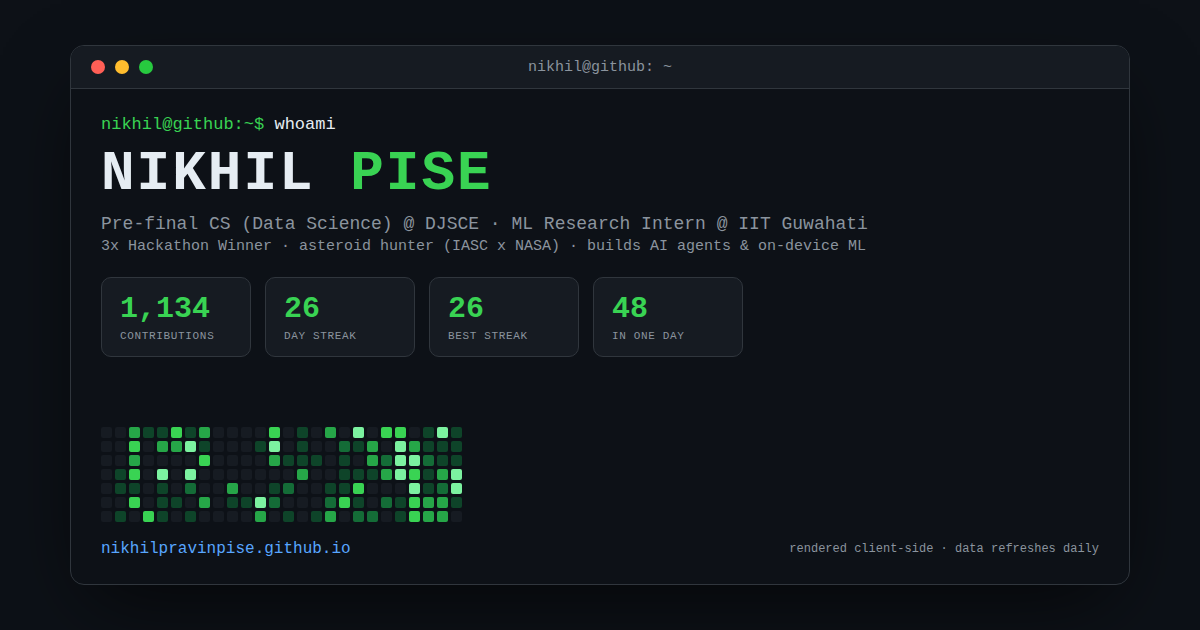
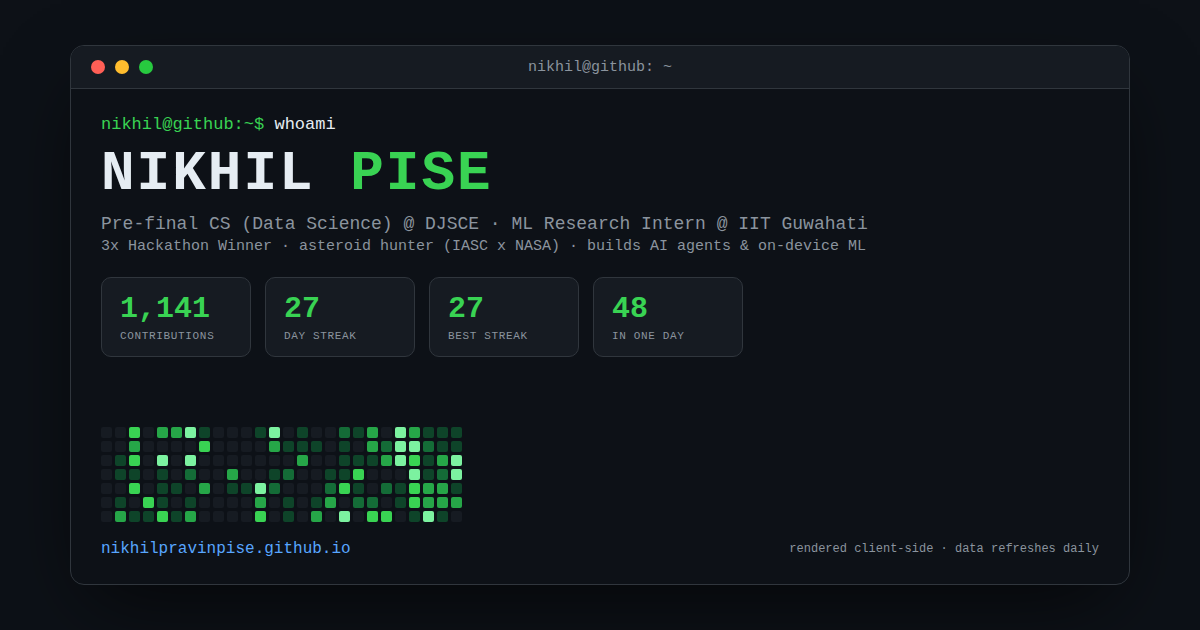
chore: refresh contribution data

diff --git a/assets/fallback.js b/assets/fallback.js
@@ -1,3 +1,3 @@
 // GENERATED by scripts/sync-github-data.js - do not edit by hand.
-export const contributions = {"username":"nikhilpravinpise","generated_at":"2026-09-18T08:14:25.881Z","range":{"start":"2025-09-14","end":"2026-09-18"},"total_contributions":1134,"active_days":185,"avg_per_active_day":6.1,"current_streak":{"length":26,"start":"2026-08-23","end":"2026-09-17"},"longest_streak":{"length":26,"start":"2026-08-23","end":"2026-09-17"},"best_day":{"date":"2026-09-15","count":48},"monthly":[{"month":"2025-09","total":14},{"month":"2025-10","total":56},{"month":"2025-11","total":128},{"month":"2025-12","total":116},{"month":"2026-01","total":37},{"month":"2026-02","total":62},{"month":"2026-03","total":30},{"month":"2026-04","total":117},{"month":"2026-05","total":72},{"month":"2026-06","total":84},{"month":"2026-07","total":68},{"month":"2026-08","total":230},{"month":"2026-09","total":120}],"days":[{"date":"2025-09-14","count":3},{"date":"2025-09-15","count":3},{"date":"2025-09-16","count":0},{"date":"2025-09-17","count":0},{"date":"2025-09-18","count":0},{"date":"2025-09-19","count":0},{"date":"2025-09-20","count":0},{"date":"2025-09-21","count":0},{"date":"2025-09-22","count":0},{"date":"2025-09-23","count":3},{"date":"2025-09-24","count":0},{"date":"2025-09-25","count":0},{"date":"2025-09-26","count":4},{"date":"2025-09-27","count":1},{"date":"2025-09-28","count":0},{"date":"2025-09-29","count":0},{"date":"2025-09-30","count":0},{"date":"2025-10-01","count":0},{"date":"2025-10-02","count":0},{"date":"2025-10-03","count":1},{"date":"2025-10-04","count":8},{"date":"2025-10-05","count":0},{"date":"2025-10-06","count":0},{"date":"2025-10-07","count":0},{"date":"2025-10-08","count":5},{"date":"2025-10-09","count":0},{"date":"2025-10-10","count":0},{"date":"2025-10-11","count":0},{"date":"2025-10-12","count":8},{"date":"2025-10-13","count":0},{"date":"2025-10-14","count":0},{"date":"2025-10-15","count":0},{"date":"2025-10-16","count":0},{"date":"2025-10-17","count":0},{"date":"2025-10-18","count":0},{"date":"2025-10-19","count":0},{"date":"2025-10-20","count":0},{"date":"2025-10-21","count":0},{"date":"2025-10-22","count":0},{"date":"2025-10-23","count":0},{"date":"2025-10-24","count":0},{"date":"2025-10-25","count":0},{"date":"2025-10-26","count":4},{"date":"2025-10-27","count":0},{"date":"2025-10-28","count":0},{"date":"2025-10-29","count":2},{"date":"2025-10-30","count":0},{"date":"2025-10-31","count":28},{"date":"2025-11-01","count":4},{"date":"2025-11-02","count":20},{"date":"2025-11-03","count":0},{"date":"2025-11-04","count":0},{"date":"2025-11-05","count":5},{"date":"2025-11-06","count":5},{"date":"2025-11-07","count":0},{"date":"2025-11-08","count":1},{"date":"2025-11-09","count":13},{"date":"2025-11-10","count":0},{"date":"2025-11-11","count":0},{"date":"2025-11-12","count":0},{"date":"2025-11-13","count":0},{"date":"2025-11-14","count":0},{"date":"2025-11-15","count":0},{"date":"2025-11-16","count":5},{"date":"2025-11-17","count":3},{"date":"2025-11-18","count":13},{"date":"2025-11-19","count":16},{"date":"2025-11-20","count":3},{"date":"2025-11-21","count":5},{"date":"2025-11-22","count":15},{"date":"2025-11-23","count":2},{"date":"2025-11-24","count":1},{"date":"2025-11-25","count":2},{"date":"2025-11-26","count":0},{"date":"2025-11-27","count":1},{"date":"2025-11-28","count":4},{"date":"2025-11-29","count":6},{"date":"2025-11-30","count":4},{"date":"2025-12-01","count":0},{"date":"2025-12-02","count":6},{"date":"2025-12-03","count":5},{"date":"2025-12-04","count":0},{"date":"2025-12-05","count":0},{"date":"2025-12-06","count":0},{"date":"2025-12-07","count":6},{"date":"2025-12-08","count":1},{"date":"2025-12-09","count":1},{"date":"2025-12-10","count":11},{"date":"2025-12-11","count":6},{"date":"2025-12-12","count":0},{"date":"2025-12-13","count":1},{"date":"2025-12-14","count":0},{"date":"2025-12-15","count":26},{"date":"2025-12-16","count":0},{"date":"2025-12-17","count":3},{"date":"2025-12-18","count":0},{"date":"2025-12-19","count":7},{"date":"2025-12-20","count":0},{"date":"2025-12-21","count":0},{"date":"2025-12-22","count":1},{"date":"2025-12-23","count":0},{"date":"2025-12-24","count":11},{"date":"2025-12-25","count":3},{"date":"2025-12-26","count":2},{"date":"2025-12-27","count":9},{"date":"2025-12-28","count":2},{"date":"2025-12-29","count":1},{"date":"2025-12-30","count":0},{"date":"2025-12-31","count":14},{"date":"2026-01-01","count":0},{"date":"2026-01-02","count":2},{"date":"2026-01-03","count":1},{"date":"2026-01-04","count":0},{"date":"2026-01-05","count":5},{"date":"2026-01-06","count":2},{"date":"2026-01-07","count":2},{"date":"2026-01-08","count":0},{"date":"2026-01-09","count":0},{"date":"2026-01-10","count":0},{"date":"2026-01-11","count":0},{"date":"2026-01-12","count":0},{"date":"2026-01-13","count":2},{"date":"2026-01-14","count":0},{"date":"2026-01-15","count":2},{"date":"2026-01-16","count":0},{"date":"2026-01-17","count":0},{"date":"2026-01-18","count":0},{"date":"2026-01-19","count":0},{"date":"2026-01-20","count":3},{"date":"2026-01-21","count":12},{"date":"2026-01-22","count":2},{"date":"2026-01-23","count":2},{"date":"2026-01-24","count":0},{"date":"2026-01-25","count":1},{"date":"2026-01-26","count":1},{"date":"2026-01-27","count":0},{"date":"2026-01-28","count":0},{"date":"2026-01-29","count":0},{"date":"2026-01-30","count":0},{"date":"2026-01-31","count":0},{"date":"2026-02-01","count":1},{"date":"2026-02-02","count":7},{"date":"2026-02-03","count":14},{"date":"2026-02-04","count":0},{"date":"2026-02-05","count":0},{"date":"2026-02-06","count":4},{"date":"2026-02-07","count":4},{"date":"2026-02-08","count":5},{"date":"2026-02-09","count":0},{"date":"2026-02-10","count":0},{"date":"2026-02-11","count":0},{"date":"2026-02-12","count":0},{"date":"2026-02-13","count":0},{"date":"2026-02-14","count":0},{"date":"2026-02-15","count":3},{"date":"2026-02-16","count":2},{"date":"2026-02-17","count":2},{"date":"2026-02-18","count":0},{"date":"2026-02-19","count":0},{"date":"2026-02-20","count":0},{"date":"2026-02-21","count":0},{"date":"2026-02-22","count":0},{"date":"2026-02-23","count":13},{"date":"2026-02-24","count":3},{"date":"2026-02-25","count":3},{"date":"2026-02-26","count":0},{"date":"2026-02-27","count":1},{"date":"2026-02-28","count":0},{"date":"2026-03-01","count":0},{"date":"2026-03-02","count":0},{"date":"2026-03-03","count":0},{"date":"2026-03-04","count":0},{"date":"2026-03-05","count":0},{"date":"2026-03-06","count":0},{"date":"2026-03-07","count":0},{"date":"2026-03-08","count":0},{"date":"2026-03-09","count":15},{"date":"2026-03-10","count":2},{"date":"2026-03-11","count":0},{"date":"2026-03-12","count":0},{"date":"2026-03-13","count":7},{"date":"2026-03-14","count":5},{"date":"2026-03-15","count":0},{"date":"2026-03-16","count":0},{"date":"2026-03-17","count":0},{"date":"2026-03-18","count":0},{"date":"2026-03-19","count":0},{"date":"2026-03-20","count":0},{"date":"2026-03-21","count":0},{"date":"2026-03-22","count":0},{"date":"2026-03-23","count":0},{"date":"2026-03-24","count":0},{"date":"2026-03-25","count":0},{"date":"2026-03-26","count":0},{"date":"2026-03-27","count":0},{"date":"2026-03-28","count":0},{"date":"2026-03-29","count":0},{"date":"2026-03-30","count":0},{"date":"2026-03-31","count":1},{"date":"2026-04-01","count":2},{"date":"2026-04-02","count":0},{"date":"2026-04-03","count":2},{"date":"2026-04-04","count":5},{"date":"2026-04-05","count":15},{"date":"2026-04-06","count":6},{"date":"2026-04-07","count":8},{"date":"2026-04-08","count":2},{"date":"2026-04-09","count":13},{"date":"2026-04-10","count":0},{"date":"2026-04-11","count":2},{"date":"2026-04-12","count":0},{"date":"2026-04-13","count":0},{"date":"2026-04-14","count":0},{"date":"2026-04-15","count":0},{"date":"2026-04-16","count":0},{"date":"2026-04-17","count":15},{"date":"2026-04-18","count":2},{"date":"2026-04-19","count":4},{"date":"2026-04-20","count":0},{"date":"2026-04-21","count":20},{"date":"2026-04-22","count":2},{"date":"2026-04-23","count":2},{"date":"2026-04-24","count":1},{"date":"2026-04-25","count":11},{"date":"2026-04-26","count":4},{"date":"2026-04-27","count":0},{"date":"2026-04-28","count":0},{"date":"2026-04-29","count":0},{"date":"2026-04-30","count":1},{"date":"2026-05-01","count":0},{"date":"2026-05-02","count":1},{"date":"2026-05-03","count":17},{"date":"2026-05-04","count":0},{"date":"2026-05-05","count":17},{"date":"2026-05-06","count":3},{"date":"2026-05-07","count":0},{"date":"2026-05-08","count":2},{"date":"2026-05-09","count":5},{"date":"2026-05-10","count":2},{"date":"2026-05-11","count":12},{"date":"2026-05-12","count":0},{"date":"2026-05-13","count":0},{"date":"2026-05-14","count":5},{"date":"2026-05-15","count":0},{"date":"2026-05-16","count":0},{"date":"2026-05-17","count":0},{"date":"2026-05-18","count":0},{"date":"2026-05-19","count":0},{"date":"2026-05-20","count":0},{"date":"2026-05-21","count":0},{"date":"2026-05-22","count":0},{"date":"2026-05-23","count":0},{"date":"2026-05-24","count":0},{"date":"2026-05-25","count":0},{"date":"2026-05-26","count":0},{"date":"2026-05-27","count":7},{"date":"2026-05-28","count":1},{"date":"2026-05-29","count":0},{"date":"2026-05-30","count":0},{"date":"2026-05-31","count":0},{"date":"2026-06-01","count":0},{"date":"2026-06-02","count":0},{"date":"2026-06-03","count":0},{"date":"2026-06-04","count":1},{"date":"2026-06-05","count":0},{"date":"2026-06-06","count":0},{"date":"2026-06-07","count":1},{"date":"2026-06-08","count":0},{"date":"2026-06-09","count":0},{"date":"2026-06-10","count":0},{"date":"2026-06-11","count":16},{"date":"2026-06-12","count":4},{"date":"2026-06-13","count":11},{"date":"2026-06-14","count":24},{"date":"2026-06-15","count":5},{"date":"2026-06-16","count":0},{"date":"2026-06-17","count":2},{"date":"2026-06-18","count":3},{"date":"2026-06-19","count":0},{"date":"2026-06-20","count":0},{"date":"2026-06-21","count":0},{"date":"2026-06-22","count":2},{"date":"2026-06-23","count":0},{"date":"2026-06-24","count":3},{"date":"2026-06-25","count":0},{"date":"2026-06-26","count":2},{"date":"2026-06-27","count":1},{"date":"2026-06-28","count":1},{"date":"2026-06-29","count":1},{"date":"2026-06-30","count":7},{"date":"2026-07-01","count":0},{"date":"2026-07-02","count":0},{"date":"2026-07-03","count":0},{"date":"2026-07-04","count":0},{"date":"2026-07-05","count":0},{"date":"2026-07-06","count":1},{"date":"2026-07-07","count":0},{"date":"2026-07-08","count":0},{"date":"2026-07-09","count":0},{"date":"2026-07-10","count":2},{"date":"2026-07-11","count":4},{"date":"2026-07-12","count":0},{"date":"2026-07-13","count":0},{"date":"2026-07-14","count":0},{"date":"2026-07-15","count":1},{"date":"2026-07-16","count":3},{"date":"2026-07-17","count":5},{"date":"2026-07-18","count":0},{"date":"2026-07-19","count":3},{"date":"2026-07-20","count":1},{"date":"2026-07-21","count":2},{"date":"2026-07-22","count":1},{"date":"2026-07-23","count":9},{"date":"2026-07-24","count":0},{"date":"2026-07-25","count":18},{"date":"2026-07-26","count":2},{"date":"2026-07-27","count":0},{"date":"2026-07-28","count":1},{"date":"2026-07-29","count":10},{"date":"2026-07-30","count":2},{"date":"2026-07-31","count":3},{"date":"2026-08-01","count":0},{"date":"2026-08-02","count":5},{"date":"2026-08-03","count":4},{"date":"2026-08-04","count":1},{"date":"2026-08-05","count":0},{"date":"2026-08-06","count":0},{"date":"2026-08-07","count":3},{"date":"2026-08-08","count":8},{"date":"2026-08-09","count":0},{"date":"2026-08-10","count":3},{"date":"2026-08-11","count":4},{"date":"2026-08-12","count":0},{"date":"2026-08-13","count":3},{"date":"2026-08-14","count":0},{"date":"2026-08-15","count":10},{"date":"2026-08-16","count":39},{"date":"2026-08-17","count":40},{"date":"2026-08-18","count":16},{"date":"2026-08-19","count":0},{"date":"2026-08-20","count":2},{"date":"2026-08-21","count":2},{"date":"2026-08-22","count":0},{"date":"2026-08-23","count":4},{"date":"2026-08-24","count":21},{"date":"2026-08-25","count":15},{"date":"2026-08-26","count":22},{"date":"2026-08-27","count":14},{"date":"2026-08-28","count":8},{"date":"2026-08-29","count":2},{"date":"2026-08-30","count":1},{"date":"2026-08-31","count":3},{"date":"2026-09-01","count":1},{"date":"2026-09-02","count":1},{"date":"2026-09-03","count":6},{"date":"2026-09-04","count":4},{"date":"2026-09-05","count":16},{"date":"2026-09-06","count":1},{"date":"2026-09-07","count":1},{"date":"2026-09-08","count":4},{"date":"2026-09-09","count":3},{"date":"2026-09-10","count":4},{"date":"2026-09-11","count":6},{"date":"2026-09-12","count":2},{"date":"2026-09-13","count":2},{"date":"2026-09-14","count":1},{"date":"2026-09-15","count":48},{"date":"2026-09-16","count":19},{"date":"2026-09-17","count":1},{"date":"2026-09-18","count":0}]};
-export const repos = {"username":"nikhilpravinpise","generated_at":"2026-09-18T08:14:25.881Z","user_created_at":"2021-08-11T07:03:03Z","repos":[{"name":"FreelanceMCP","description":"🚀 AI-powered freelance gig aggregator MCP server for Claude Desktop. Search gigs, generate proposals, negotiate rates & optimize profiles with ChatGroq AI.","url":"https://github.com/nikhilpravinpise/FreelanceMCP","stars":7,"forks":0,"archived":false,"pushed_at":"2025-11-18T18:34:53Z","language":"Python","language_color":"#3572A5"},{"name":"ML-Specialization","description":"📚 Solution notebooks for Andrew Ng's Machine Learning Specialization on Coursera | Supervised Learning, Neural Networks, Unsupervised Learning, Recommender Systems & Reinforcement Learning | Python, TensorFlow, scikit-learn","url":"https://github.com/nikhilpravinpise/ML-Specialization","stars":4,"forks":2,"archived":false,"pushed_at":"2025-11-27T09:55:41Z","language":"Jupyter Notebook","language_color":"#DA5B0B"},{"name":"Medium-Agent","description":"📚 Turn Medium articles into audio, summaries, and AI reports. Features robust scraping with anti-bot bypass, Claude Desktop (MCP) integration, and a Gradio UI.","url":"https://github.com/nikhilpravinpise/Medium-Agent","stars":2,"forks":0,"archived":false,"pushed_at":"2026-04-25T06:50:58Z","language":"Python","language_color":"#3572A5"},{"name":"VidyaSetu","description":"📚 Comprehensive digital platform designed to empower students, faculty, and administrators in managing academic portfolios, achievements, and institutional accreditation processes","url":"https://github.com/nikhilpravinpise/VidyaSetu","stars":2,"forks":0,"archived":false,"pushed_at":"2025-10-31T15:16:24Z","language":"JavaScript","language_color":"#f1e05a"},{"name":"nikhilpravinpise","description":"github profile readme","url":"https://github.com/nikhilpravinpise/nikhilpravinpise","stars":2,"forks":0,"archived":false,"pushed_at":"2026-09-17T10:00:05Z","language":"Python","language_color":"#3572A5"},{"name":"Mediguard-Chatbot-Frontend","description":"🏥 The modern React landing page for MediGuard AI—a HIPAA-compliant WhatsApp bot for blood test analysis and disease prediction.","url":"https://github.com/nikhilpravinpise/Mediguard-Chatbot-Frontend","stars":1,"forks":0,"archived":false,"pushed_at":"2026-01-05T18:21:30Z","language":"TypeScript","language_color":"#3178c6"},{"name":"Pramana.AI","description":"🧬 AI-powered biomedical research platform built with LangGraph, Groq, and React 19. Features 5 specialized agents, real-time streaming, and Model Context Protocol (MCP) integration.","url":"https://github.com/nikhilpravinpise/Pramana.AI","stars":1,"forks":1,"archived":false,"pushed_at":"2026-01-20T14:19:29Z","language":"TypeScript","language_color":"#3178c6"},{"name":"MediGuard-Chatbot","description":"🤖 An automated WhatsApp bot that enables programmatic messaging, command handling, and custom interactions using WhatsApp Web API","url":"https://github.com/nikhilpravinpise/MediGuard-Chatbot","stars":1,"forks":0,"archived":false,"pushed_at":"2026-01-05T18:20:58Z","language":"Python","language_color":"#3572A5"}]};
+export const contributions = {"username":"nikhilpravinpise","generated_at":"2026-09-19T08:02:27.205Z","range":{"start":"2025-09-14","end":"2026-09-19"},"total_contributions":1141,"active_days":186,"avg_per_active_day":6.1,"current_streak":{"length":27,"start":"2026-08-23","end":"2026-09-18"},"longest_streak":{"length":27,"start":"2026-08-23","end":"2026-09-18"},"best_day":{"date":"2026-09-15","count":48},"monthly":[{"month":"2025-09","total":14},{"month":"2025-10","total":56},{"month":"2025-11","total":128},{"month":"2025-12","total":116},{"month":"2026-01","total":37},{"month":"2026-02","total":62},{"month":"2026-03","total":30},{"month":"2026-04","total":117},{"month":"2026-05","total":72},{"month":"2026-06","total":84},{"month":"2026-07","total":68},{"month":"2026-08","total":230},{"month":"2026-09","total":127}],"days":[{"date":"2025-09-14","count":3},{"date":"2025-09-15","count":3},{"date":"2025-09-16","count":0},{"date":"2025-09-17","count":0},{"date":"2025-09-18","count":0},{"date":"2025-09-19","count":0},{"date":"2025-09-20","count":0},{"date":"2025-09-21","count":0},{"date":"2025-09-22","count":0},{"date":"2025-09-23","count":3},{"date":"2025-09-24","count":0},{"date":"2025-09-25","count":0},{"date":"2025-09-26","count":4},{"date":"2025-09-27","count":1},{"date":"2025-09-28","count":0},{"date":"2025-09-29","count":0},{"date":"2025-09-30","count":0},{"date":"2025-10-01","count":0},{"date":"2025-10-02","count":0},{"date":"2025-10-03","count":1},{"date":"2025-10-04","count":8},{"date":"2025-10-05","count":0},{"date":"2025-10-06","count":0},{"date":"2025-10-07","count":0},{"date":"2025-10-08","count":5},{"date":"2025-10-09","count":0},{"date":"2025-10-10","count":0},{"date":"2025-10-11","count":0},{"date":"2025-10-12","count":8},{"date":"2025-10-13","count":0},{"date":"2025-10-14","count":0},{"date":"2025-10-15","count":0},{"date":"2025-10-16","count":0},{"date":"2025-10-17","count":0},{"date":"2025-10-18","count":0},{"date":"2025-10-19","count":0},{"date":"2025-10-20","count":0},{"date":"2025-10-21","count":0},{"date":"2025-10-22","count":0},{"date":"2025-10-23","count":0},{"date":"2025-10-24","count":0},{"date":"2025-10-25","count":0},{"date":"2025-10-26","count":4},{"date":"2025-10-27","count":0},{"date":"2025-10-28","count":0},{"date":"2025-10-29","count":2},{"date":"2025-10-30","count":0},{"date":"2025-10-31","count":28},{"date":"2025-11-01","count":4},{"date":"2025-11-02","count":20},{"date":"2025-11-03","count":0},{"date":"2025-11-04","count":0},{"date":"2025-11-05","count":5},{"date":"2025-11-06","count":5},{"date":"2025-11-07","count":0},{"date":"2025-11-08","count":1},{"date":"2025-11-09","count":13},{"date":"2025-11-10","count":0},{"date":"2025-11-11","count":0},{"date":"2025-11-12","count":0},{"date":"2025-11-13","count":0},{"date":"2025-11-14","count":0},{"date":"2025-11-15","count":0},{"date":"2025-11-16","count":5},{"date":"2025-11-17","count":3},{"date":"2025-11-18","count":13},{"date":"2025-11-19","count":16},{"date":"2025-11-20","count":3},{"date":"2025-11-21","count":5},{"date":"2025-11-22","count":15},{"date":"2025-11-23","count":2},{"date":"2025-11-24","count":1},{"date":"2025-11-25","count":2},{"date":"2025-11-26","count":0},{"date":"2025-11-27","count":1},{"date":"2025-11-28","count":4},{"date":"2025-11-29","count":6},{"date":"2025-11-30","count":4},{"date":"2025-12-01","count":0},{"date":"2025-12-02","count":6},{"date":"2025-12-03","count":5},{"date":"2025-12-04","count":0},{"date":"2025-12-05","count":0},{"date":"2025-12-06","count":0},{"date":"2025-12-07","count":6},{"date":"2025-12-08","count":1},{"date":"2025-12-09","count":1},{"date":"2025-12-10","count":11},{"date":"2025-12-11","count":6},{"date":"2025-12-12","count":0},{"date":"2025-12-13","count":1},{"date":"2025-12-14","count":0},{"date":"2025-12-15","count":26},{"date":"2025-12-16","count":0},{"date":"2025-12-17","count":3},{"date":"2025-12-18","count":0},{"date":"2025-12-19","count":7},{"date":"2025-12-20","count":0},{"date":"2025-12-21","count":0},{"date":"2025-12-22","count":1},{"date":"2025-12-23","count":0},{"date":"2025-12-24","count":11},{"date":"2025-12-25","count":3},{"date":"2025-12-26","count":2},{"date":"2025-12-27","count":9},{"date":"2025-12-28","count":2},{"date":"2025-12-29","count":1},{"date":"2025-12-30","count":0},{"date":"2025-12-31","count":14},{"date":"2026-01-01","count":0},{"date":"2026-01-02","count":2},{"date":"2026-01-03","count":1},{"date":"2026-01-04","count":0},{"date":"2026-01-05","count":5},{"date":"2026-01-06","count":2},{"date":"2026-01-07","count":2},{"date":"2026-01-08","count":0},{"date":"2026-01-09","count":0},{"date":"2026-01-10","count":0},{"date":"2026-01-11","count":0},{"date":"2026-01-12","count":0},{"date":"2026-01-13","count":2},{"date":"2026-01-14","count":0},{"date":"2026-01-15","count":2},{"date":"2026-01-16","count":0},{"date":"2026-01-17","count":0},{"date":"2026-01-18","count":0},{"date":"2026-01-19","count":0},{"date":"2026-01-20","count":3},{"date":"2026-01-21","count":12},{"date":"2026-01-22","count":2},{"date":"2026-01-23","count":2},{"date":"2026-01-24","count":0},{"date":"2026-01-25","count":1},{"date":"2026-01-26","count":1},{"date":"2026-01-27","count":0},{"date":"2026-01-28","count":0},{"date":"2026-01-29","count":0},{"date":"2026-01-30","count":0},{"date":"2026-01-31","count":0},{"date":"2026-02-01","count":1},{"date":"2026-02-02","count":7},{"date":"2026-02-03","count":14},{"date":"2026-02-04","count":0},{"date":"2026-02-05","count":0},{"date":"2026-02-06","count":4},{"date":"2026-02-07","count":4},{"date":"2026-02-08","count":5},{"date":"2026-02-09","count":0},{"date":"2026-02-10","count":0},{"date":"2026-02-11","count":0},{"date":"2026-02-12","count":0},{"date":"2026-02-13","count":0},{"date":"2026-02-14","count":0},{"date":"2026-02-15","count":3},{"date":"2026-02-16","count":2},{"date":"2026-02-17","count":2},{"date":"2026-02-18","count":0},{"date":"2026-02-19","count":0},{"date":"2026-02-20","count":0},{"date":"2026-02-21","count":0},{"date":"2026-02-22","count":0},{"date":"2026-02-23","count":13},{"date":"2026-02-24","count":3},{"date":"2026-02-25","count":3},{"date":"2026-02-26","count":0},{"date":"2026-02-27","count":1},{"date":"2026-02-28","count":0},{"date":"2026-03-01","count":0},{"date":"2026-03-02","count":0},{"date":"2026-03-03","count":0},{"date":"2026-03-04","count":0},{"date":"2026-03-05","count":0},{"date":"2026-03-06","count":0},{"date":"2026-03-07","count":0},{"date":"2026-03-08","count":0},{"date":"2026-03-09","count":15},{"date":"2026-03-10","count":2},{"date":"2026-03-11","count":0},{"date":"2026-03-12","count":0},{"date":"2026-03-13","count":7},{"date":"2026-03-14","count":5},{"date":"2026-03-15","count":0},{"date":"2026-03-16","count":0},{"date":"2026-03-17","count":0},{"date":"2026-03-18","count":0},{"date":"2026-03-19","count":0},{"date":"2026-03-20","count":0},{"date":"2026-03-21","count":0},{"date":"2026-03-22","count":0},{"date":"2026-03-23","count":0},{"date":"2026-03-24","count":0},{"date":"2026-03-25","count":0},{"date":"2026-03-26","count":0},{"date":"2026-03-27","count":0},{"date":"2026-03-28","count":0},{"date":"2026-03-29","count":0},{"date":"2026-03-30","count":0},{"date":"2026-03-31","count":1},{"date":"2026-04-01","count":2},{"date":"2026-04-02","count":0},{"date":"2026-04-03","count":2},{"date":"2026-04-04","count":5},{"date":"2026-04-05","count":15},{"date":"2026-04-06","count":6},{"date":"2026-04-07","count":8},{"date":"2026-04-08","count":2},{"date":"2026-04-09","count":13},{"date":"2026-04-10","count":0},{"date":"2026-04-11","count":2},{"date":"2026-04-12","count":0},{"date":"2026-04-13","count":0},{"date":"2026-04-14","count":0},{"date":"2026-04-15","count":0},{"date":"2026-04-16","count":0},{"date":"2026-04-17","count":15},{"date":"2026-04-18","count":2},{"date":"2026-04-19","count":4},{"date":"2026-04-20","count":0},{"date":"2026-04-21","count":20},{"date":"2026-04-22","count":2},{"date":"2026-04-23","count":2},{"date":"2026-04-24","count":1},{"date":"2026-04-25","count":11},{"date":"2026-04-26","count":4},{"date":"2026-04-27","count":0},{"date":"2026-04-28","count":0},{"date":"2026-04-29","count":0},{"date":"2026-04-30","count":1},{"date":"2026-05-01","count":0},{"date":"2026-05-02","count":1},{"date":"2026-05-03","count":17},{"date":"2026-05-04","count":0},{"date":"2026-05-05","count":17},{"date":"2026-05-06","count":3},{"date":"2026-05-07","count":0},{"date":"2026-05-08","count":2},{"date":"2026-05-09","count":5},{"date":"2026-05-10","count":2},{"date":"2026-05-11","count":12},{"date":"2026-05-12","count":0},{"date":"2026-05-13","count":0},{"date":"2026-05-14","count":5},{"date":"2026-05-15","count":0},{"date":"2026-05-16","count":0},{"date":"2026-05-17","count":0},{"date":"2026-05-18","count":0},{"date":"2026-05-19","count":0},{"date":"2026-05-20","count":0},{"date":"2026-05-21","count":0},{"date":"2026-05-22","count":0},{"date":"2026-05-23","count":0},{"date":"2026-05-24","count":0},{"date":"2026-05-25","count":0},{"date":"2026-05-26","count":0},{"date":"2026-05-27","count":7},{"date":"2026-05-28","count":1},{"date":"2026-05-29","count":0},{"date":"2026-05-30","count":0},{"date":"2026-05-31","count":0},{"date":"2026-06-01","count":0},{"date":"2026-06-02","count":0},{"date":"2026-06-03","count":0},{"date":"2026-06-04","count":1},{"date":"2026-06-05","count":0},{"date":"2026-06-06","count":0},{"date":"2026-06-07","count":1},{"date":"2026-06-08","count":0},{"date":"2026-06-09","count":0},{"date":"2026-06-10","count":0},{"date":"2026-06-11","count":16},{"date":"2026-06-12","count":4},{"date":"2026-06-13","count":11},{"date":"2026-06-14","count":24},{"date":"2026-06-15","count":5},{"date":"2026-06-16","count":0},{"date":"2026-06-17","count":2},{"date":"2026-06-18","count":3},{"date":"2026-06-19","count":0},{"date":"2026-06-20","count":0},{"date":"2026-06-21","count":0},{"date":"2026-06-22","count":2},{"date":"2026-06-23","count":0},{"date":"2026-06-24","count":3},{"date":"2026-06-25","count":0},{"date":"2026-06-26","count":2},{"date":"2026-06-27","count":1},{"date":"2026-06-28","count":1},{"date":"2026-06-29","count":1},{"date":"2026-06-30","count":7},{"date":"2026-07-01","count":0},{"date":"2026-07-02","count":0},{"date":"2026-07-03","count":0},{"date":"2026-07-04","count":0},{"date":"2026-07-05","count":0},{"date":"2026-07-06","count":1},{"date":"2026-07-07","count":0},{"date":"2026-07-08","count":0},{"date":"2026-07-09","count":0},{"date":"2026-07-10","count":2},{"date":"2026-07-11","count":4},{"date":"2026-07-12","count":0},{"date":"2026-07-13","count":0},{"date":"2026-07-14","count":0},{"date":"2026-07-15","count":1},{"date":"2026-07-16","count":3},{"date":"2026-07-17","count":5},{"date":"2026-07-18","count":0},{"date":"2026-07-19","count":3},{"date":"2026-07-20","count":1},{"date":"2026-07-21","count":2},{"date":"2026-07-22","count":1},{"date":"2026-07-23","count":9},{"date":"2026-07-24","count":0},{"date":"2026-07-25","count":18},{"date":"2026-07-26","count":2},{"date":"2026-07-27","count":0},{"date":"2026-07-28","count":1},{"date":"2026-07-29","count":10},{"date":"2026-07-30","count":2},{"date":"2026-07-31","count":3},{"date":"2026-08-01","count":0},{"date":"2026-08-02","count":5},{"date":"2026-08-03","count":4},{"date":"2026-08-04","count":1},{"date":"2026-08-05","count":0},{"date":"2026-08-06","count":0},{"date":"2026-08-07","count":3},{"date":"2026-08-08","count":8},{"date":"2026-08-09","count":0},{"date":"2026-08-10","count":3},{"date":"2026-08-11","count":4},{"date":"2026-08-12","count":0},{"date":"2026-08-13","count":3},{"date":"2026-08-14","count":0},{"date":"2026-08-15","count":10},{"date":"2026-08-16","count":39},{"date":"2026-08-17","count":40},{"date":"2026-08-18","count":16},{"date":"2026-08-19","count":0},{"date":"2026-08-20","count":2},{"date":"2026-08-21","count":2},{"date":"2026-08-22","count":0},{"date":"2026-08-23","count":4},{"date":"2026-08-24","count":21},{"date":"2026-08-25","count":15},{"date":"2026-08-26","count":22},{"date":"2026-08-27","count":14},{"date":"2026-08-28","count":8},{"date":"2026-08-29","count":2},{"date":"2026-08-30","count":1},{"date":"2026-08-31","count":3},{"date":"2026-09-01","count":1},{"date":"2026-09-02","count":1},{"date":"2026-09-03","count":6},{"date":"2026-09-04","count":4},{"date":"2026-09-05","count":16},{"date":"2026-09-06","count":1},{"date":"2026-09-07","count":1},{"date":"2026-09-08","count":4},{"date":"2026-09-09","count":3},{"date":"2026-09-10","count":4},{"date":"2026-09-11","count":6},{"date":"2026-09-12","count":2},{"date":"2026-09-13","count":2},{"date":"2026-09-14","count":1},{"date":"2026-09-15","count":48},{"date":"2026-09-16","count":19},{"date":"2026-09-17","count":1},{"date":"2026-09-18","count":7},{"date":"2026-09-19","count":0}]};
+export const repos = {"username":"nikhilpravinpise","generated_at":"2026-09-19T08:02:27.205Z","user_created_at":"2021-08-11T07:03:03Z","repos":[{"name":"FreelanceMCP","description":"🚀 AI-powered freelance gig aggregator MCP server for Claude Desktop. Search gigs, generate proposals, negotiate rates & optimize profiles with ChatGroq AI.","url":"https://github.com/nikhilpravinpise/FreelanceMCP","stars":7,"forks":0,"archived":false,"pushed_at":"2025-11-18T18:34:53Z","language":"Python","language_color":"#3572A5"},{"name":"ML-Specialization","description":"📚 Solution notebooks for Andrew Ng's Machine Learning Specialization on Coursera | Supervised Learning, Neural Networks, Unsupervised Learning, Recommender Systems & Reinforcement Learning | Python, TensorFlow, scikit-learn","url":"https://github.com/nikhilpravinpise/ML-Specialization","stars":4,"forks":2,"archived":false,"pushed_at":"2025-11-27T09:55:41Z","language":"Jupyter Notebook","language_color":"#DA5B0B"},{"name":"Medium-Agent","description":"📚 Turn Medium articles into audio, summaries, and AI reports. Features robust scraping with anti-bot bypass, Claude Desktop (MCP) integration, and a Gradio UI.","url":"https://github.com/nikhilpravinpise/Medium-Agent","stars":2,"forks":0,"archived":false,"pushed_at":"2026-04-25T06:50:58Z","language":"Python","language_color":"#3572A5"},{"name":"VidyaSetu","description":"📚 Comprehensive digital platform designed to empower students, faculty, and administrators in managing academic portfolios, achievements, and institutional accreditation processes","url":"https://github.com/nikhilpravinpise/VidyaSetu","stars":2,"forks":0,"archived":false,"pushed_at":"2025-10-31T15:16:24Z","language":"JavaScript","language_color":"#f1e05a"},{"name":"nikhilpravinpise","description":"github profile readme","url":"https://github.com/nikhilpravinpise/nikhilpravinpise","stars":2,"forks":0,"archived":false,"pushed_at":"2026-09-18T09:46:56Z","language":"Python","language_color":"#3572A5"},{"name":"Mediguard-Chatbot-Frontend","description":"🏥 The modern React landing page for MediGuard AI—a HIPAA-compliant WhatsApp bot for blood test analysis and disease prediction.","url":"https://github.com/nikhilpravinpise/Mediguard-Chatbot-Frontend","stars":1,"forks":0,"archived":false,"pushed_at":"2026-01-05T18:21:30Z","language":"TypeScript","language_color":"#3178c6"},{"name":"Pramana.AI","description":"🧬 AI-powered biomedical research platform built with LangGraph, Groq, and React 19. Features 5 specialized agents, real-time streaming, and Model Context Protocol (MCP) integration.","url":"https://github.com/nikhilpravinpise/Pramana.AI","stars":1,"forks":1,"archived":false,"pushed_at":"2026-01-20T14:19:29Z","language":"TypeScript","language_color":"#3178c6"},{"name":"MediGuard-Chatbot","description":"🤖 An automated WhatsApp bot that enables programmatic messaging, command handling, and custom interactions using WhatsApp Web API","url":"https://github.com/nikhilpravinpise/MediGuard-Chatbot","stars":1,"forks":0,"archived":false,"pushed_at":"2026-01-05T18:20:58Z","language":"Python","language_color":"#3572A5"}]};
